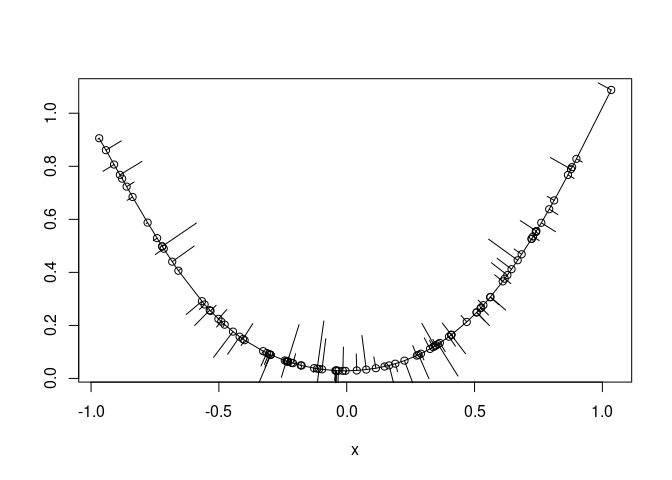
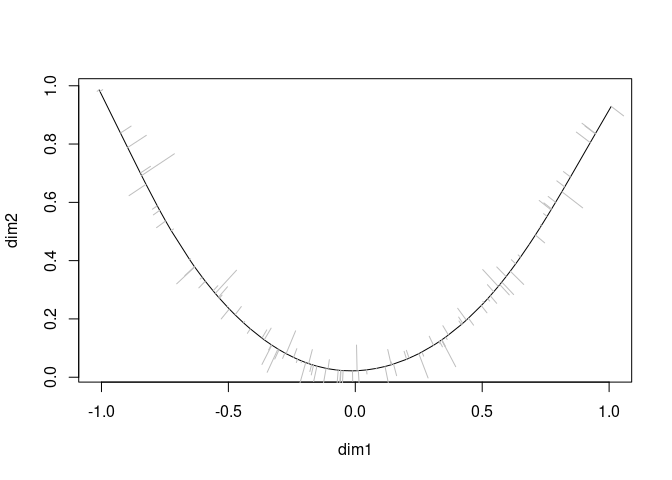
Extend README

diff --git a/README.md b/README.md
@@ -1,35 +1,40 @@
+
 <!-- README.md is generated from README.Rmd. Please edit that file -->
 princurve
 =========
 
-[![Build
-Status](https://travis-ci.org/dynverse/princurve.svg?branch=master)](https://travis-ci.org/dynverse/princurve)
-[![AppVeyor Build
-Status](https://ci.appveyor.com/api/projects/status/github/dynverse/princurve?branch=master&svg=true)](https://ci.appveyor.com/project/dynverse/princurve)
-[![CRAN\_Status\_Badge](https://www.r-pkg.org/badges/version/princurve)](https://cran.r-project.org/package=princurve)
-[![Coverage
-Status](https://codecov.io/gh/dynverse/princurve/branch/master/graph/badge.svg)](https://codecov.io/gh/dynverse/princurve?branch=master)
+[![Build Status](https://travis-ci.org/dynverse/princurve.svg?branch=master)](https://travis-ci.org/dynverse/princurve) [![AppVeyor Build Status](https://ci.appveyor.com/api/projects/status/github/dynverse/princurve?branch=master&svg=true)](https://ci.appveyor.com/project/dynverse/princurve) [![CRAN\_Status\_Badge](https://www.r-pkg.org/badges/version/princurve)](https://cran.r-project.org/package=princurve) [![Coverage Status](https://codecov.io/gh/dynverse/princurve/branch/master/graph/badge.svg)](https://codecov.io/gh/dynverse/princurve?branch=master)
 
 Fitting a principal curve to a data matrix in arbitrary dimensions.
 
 Example
 -------
 
-    library(princurve)
-    set.seed(1)
-    x <- runif(100, -1, 1)
-    x <- cbind(x, x ^ 2 + rnorm(100, sd = 0.1))
+We generate some example data:
 
-    fit1 <- principal_curve(x)
-    plot(fit1); points(fit1); whiskers(x, fit1$s)
+``` r
+t <- runif(100, -1, 1)
+x <- cbind(t, t ^ 2) + rnorm(200, sd = 0.05)
+colnames(x) <- c("dim1", "dim2")
+
+plot(x)
+```
+
+![](man/figures/README_example_data-1.png)
+
+A principal curve can be fit to the data as follows:
+
+``` r
+library(princurve)
+fit <- principal_curve(x)
+plot(fit); whiskers(x, fit$s, col = "gray")
+```
 
 ![](man/figures/README_example_plot-1.png)
+
+Check out `?principal_curve` for more information on the specific outputs of `principal_curve()`.
 
 References
 ----------
 
--   Hastie, T. and Stuetzle, W., [Principal
-    Curves](https://www.jstor.org/stable/2289936), JASA, Vol. 84, No.
-    406 (Jun., 1989), pp. 502-516, DOI:
-    [10.2307/2289936](http://doi.org/10.2307/2289936)
-    ([PDF](https://web.stanford.edu/~hastie/Papers/principalcurves.pdf))
+Hastie, T. and Stuetzle, W., [Principal Curves](https://www.jstor.org/stable/2289936), JASA, Vol. 84, No. 406 (Jun., 1989), pp. 502-516, DOI: [10.2307/2289936](http://doi.org/10.2307/2289936) ([PDF](https://web.stanford.edu/~hastie/Papers/principalcurves.pdf))
